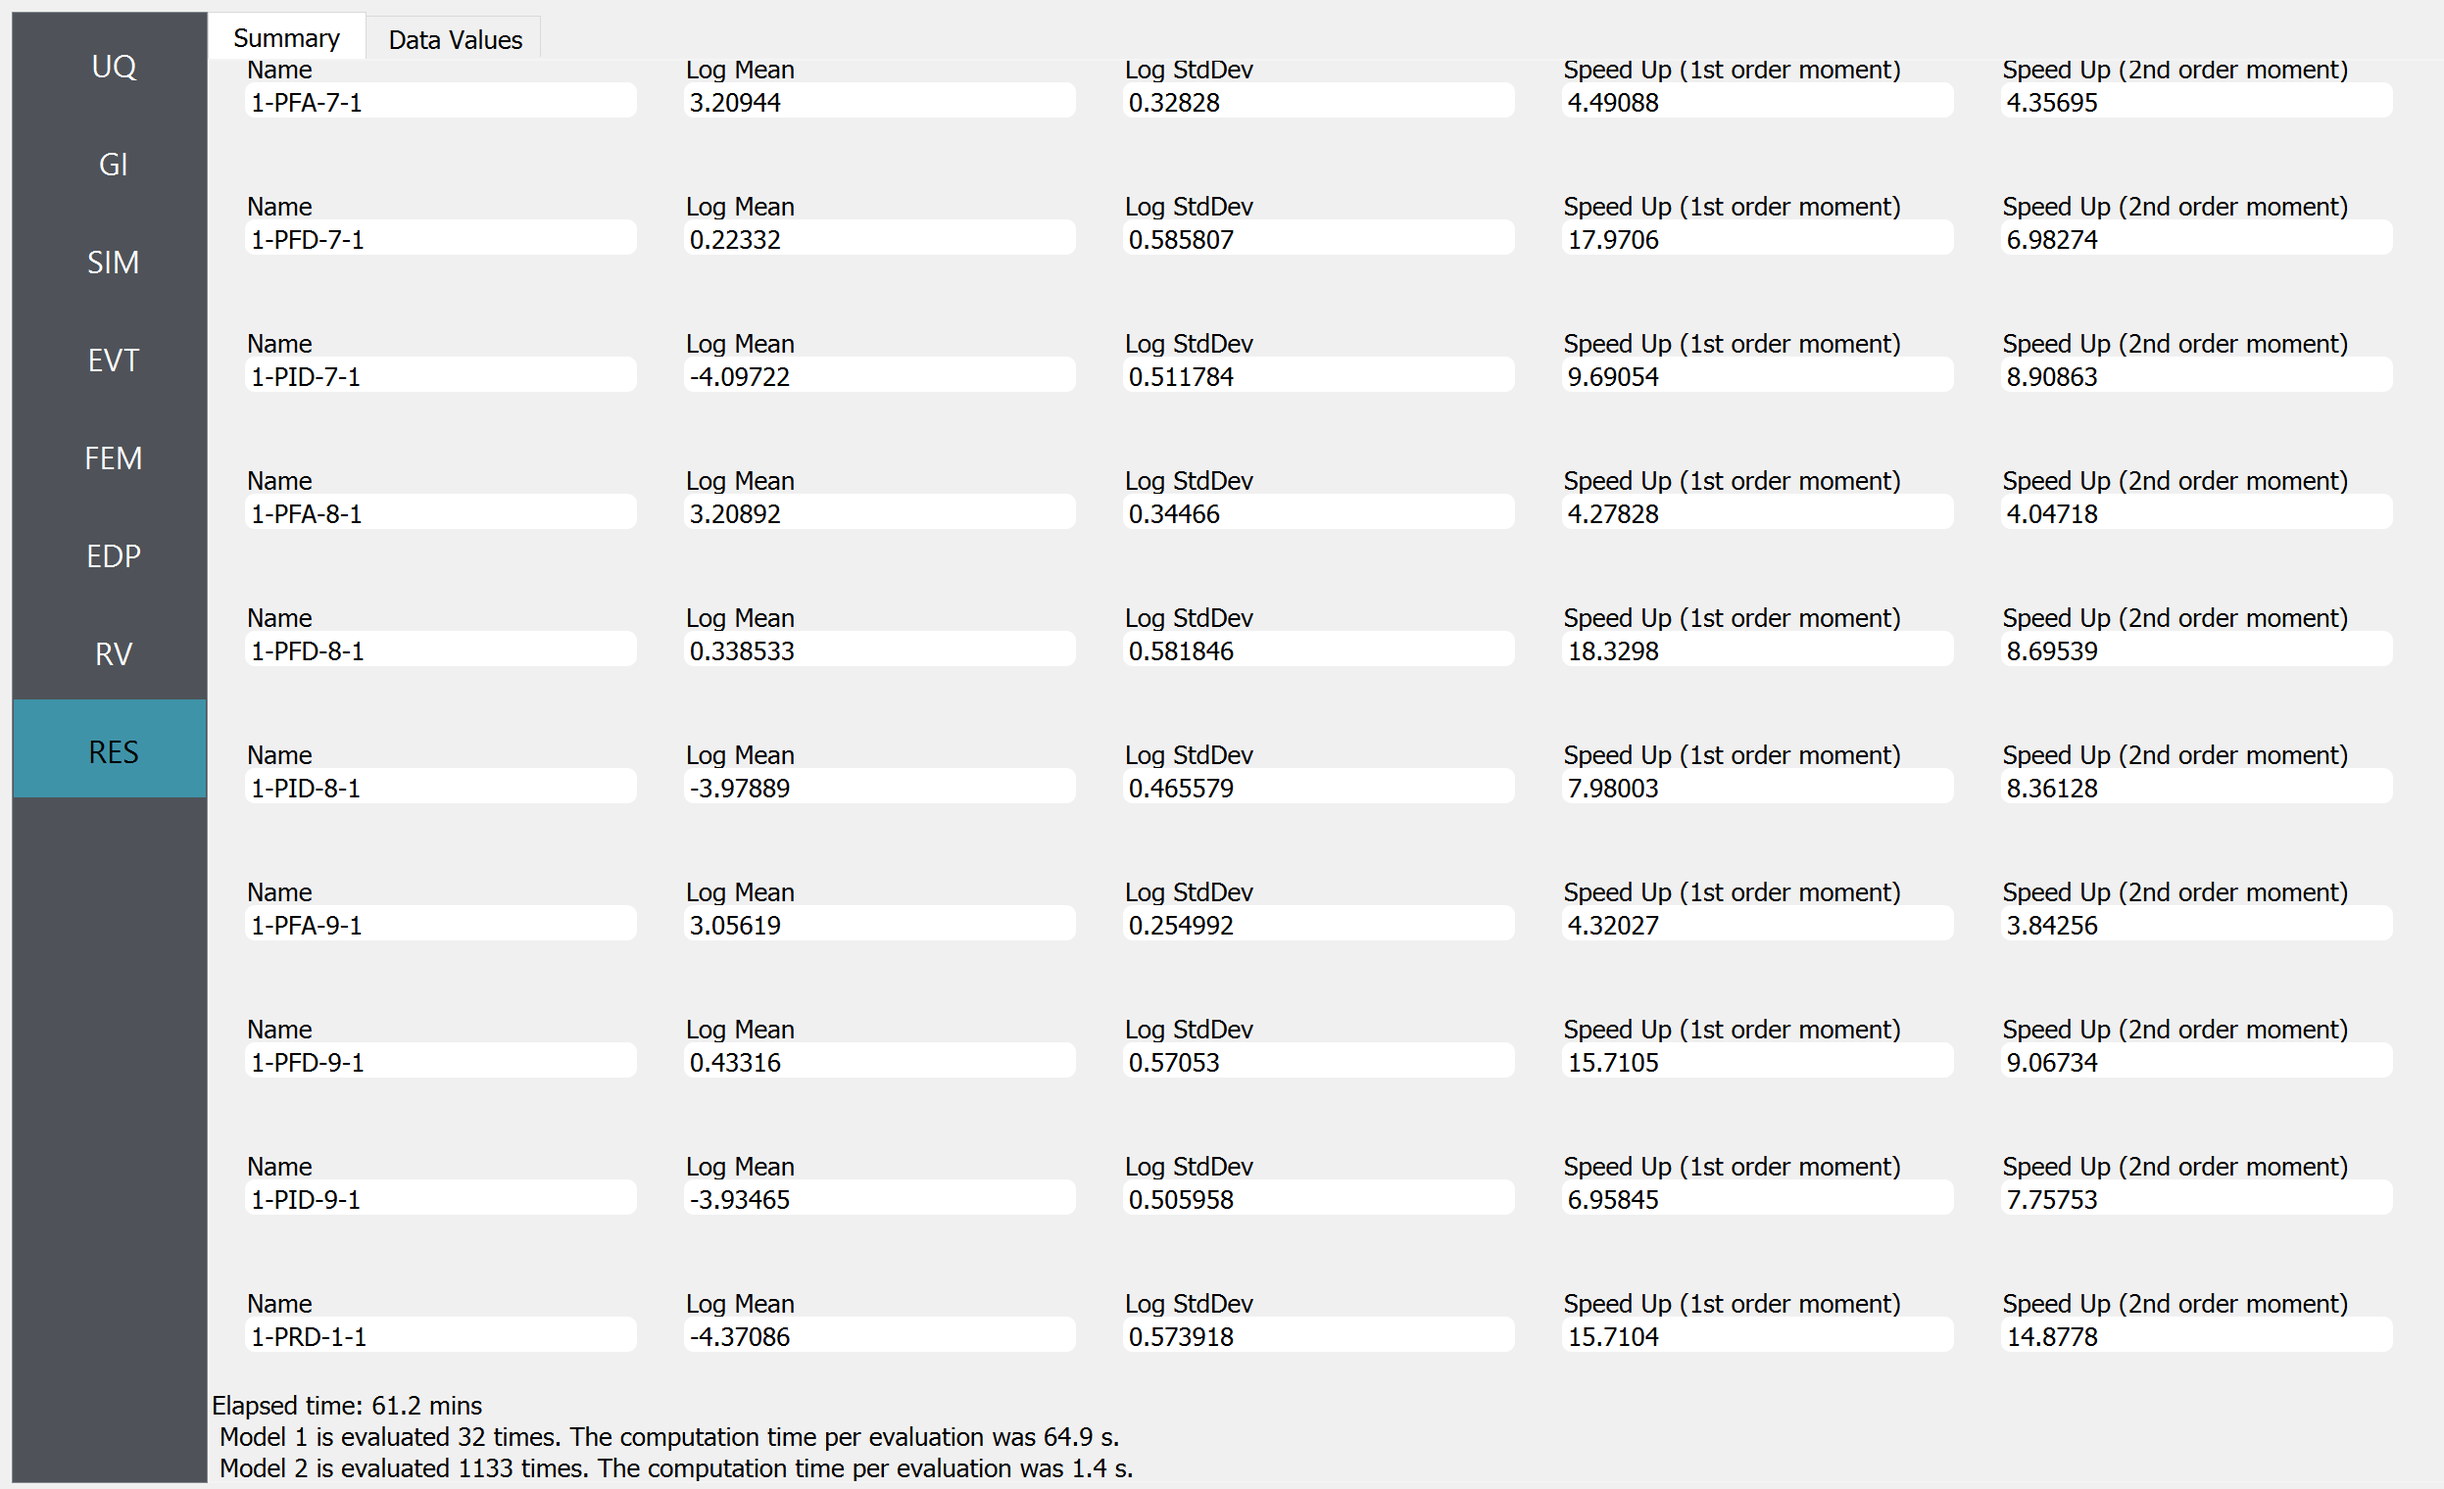
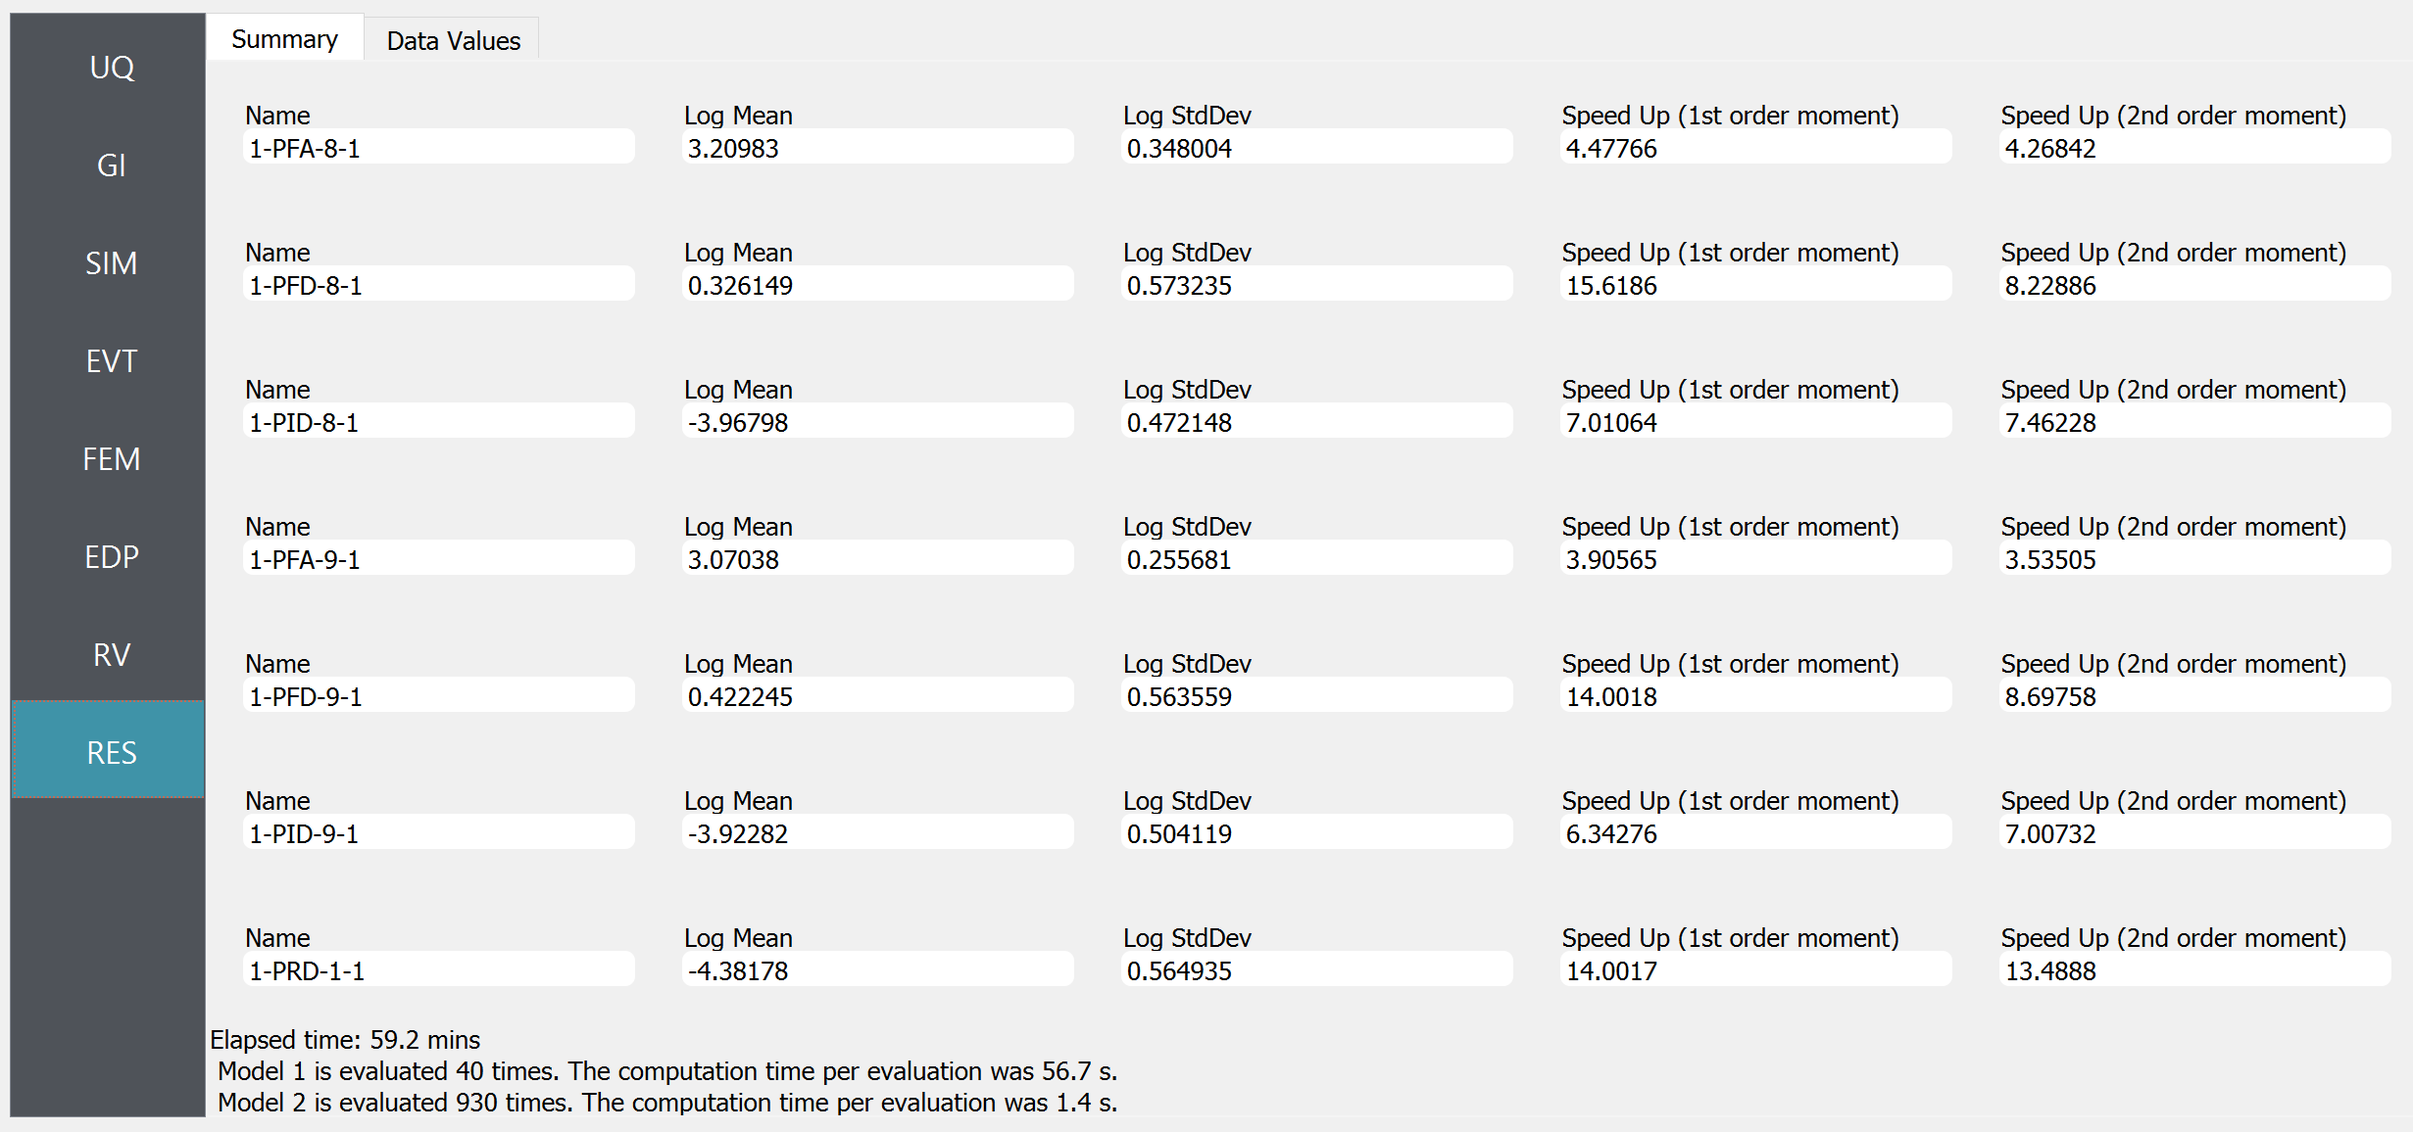
sy - minor updates

diff --git a/Examples/eeuq-0011/README.rst b/Examples/eeuq-0011/README.rst
@@ -53,11 +53,11 @@ Procedure
 
          UQ tab 
 
-   Let us set the maximum computation time to be 60 mins. Random seed can be any positive integer and is only for reproducibility purposes. Check the **Advanced Options** and set the minimum number of simulations to 30. Additionally, the the statistics will be estimated in a log scale by checking **perform log-transform** check box.
+   Let us set the maximum computation time to be 60 mins. Random seed can be any positive integer and is only for reproducibility purposes. Check the **Advanced Options** and set the minimum number of simulations to 40. Additionally, the the statistics will be estimated in a log scale by checking **perform log-transform** check box.
 
    .. note::   
 
-      Note that the maximum computation time is a 'soft' target, rather than a hard time limit. The total number of simulations is decided after a few pilot simulations (# = 30 in this example) considering the remaining budgets (time), and the process is not enforced to finish even if the target time is exceeded. Therefore, there could be a few minutes of estimation error in the max computation time. For example, the screenshot of the **RES tab** at the end of this page shows that the analysis time slightly exceeded 60 mins.
+      Note that the maximum computation time is a 'soft' target, rather than a hard time limit. The total number of simulations is decided after a few pilot simulations (# = 30 in this example) considering the remaining budgets (time), and the process is not enforced to finish even if the target time is exceeded. Therefore, there could be a few minutes of estimation error in the max computation time. 
 
 
 2. The **GI tab** is kept as default. (GI tab is not used when opensees models are imported in SIM tab)
@@ -167,8 +167,7 @@ Run the Analysis
 
          RES tab - summary of response statistics
 
-   The results additionally show **Speed Up** factors by comparing the total analysis time with the expected analysis time required to get the same precision of the estimator using only the high-fidelity simulations. Note that the elapsed time slightly exceeded the given target of 60 mins, because of the mild estimation error in the completion time. The computation time per model evaluation is "wall-clock" time, and because the example is computed using 8 processors, the actual analysis time of each model in a single processor is 8 times longer.
-
+   The results additionally show **Speed Up** factors by comparing the total analysis time with the expected analysis time required to get the same precision of the estimator using only the high-fidelity simulations. The computation time per model evaluation is "wall-clock" time, and because the example is computed using 8 processors, the actual analysis time of each model in a single processor is 8 times longer.
 
 10. In the "Data Values" tab, one can plot the histogram and cumulative density function (CDF) of the samples, as well as scatter plots between the input and output of surrogate predictions. Using this feature, one can draw a scatter plot between low- and high-fidelity model responses. This is useful because it gives intuition on how informative the low-fidelity model run is.
 
